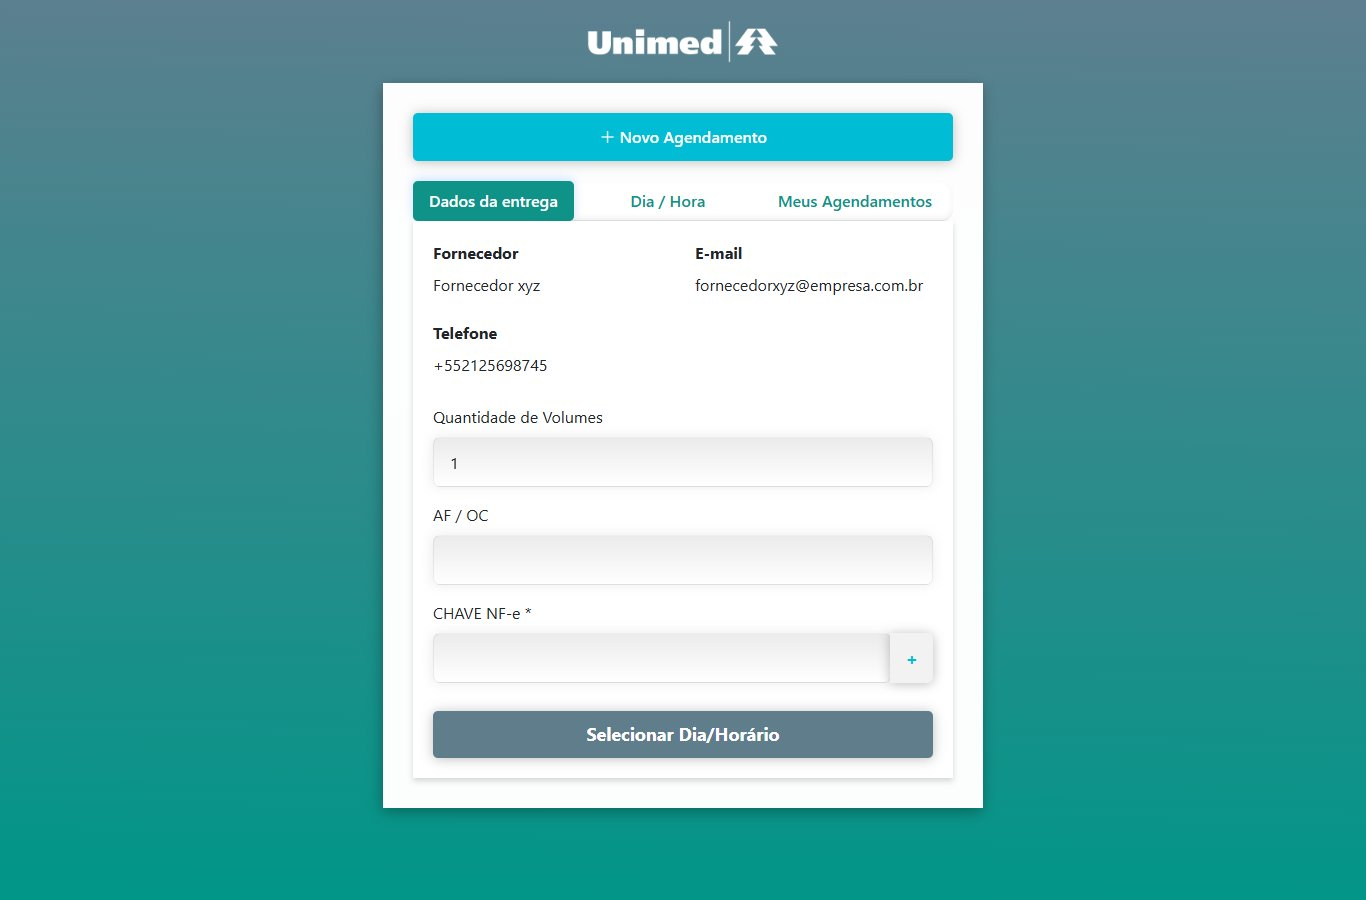
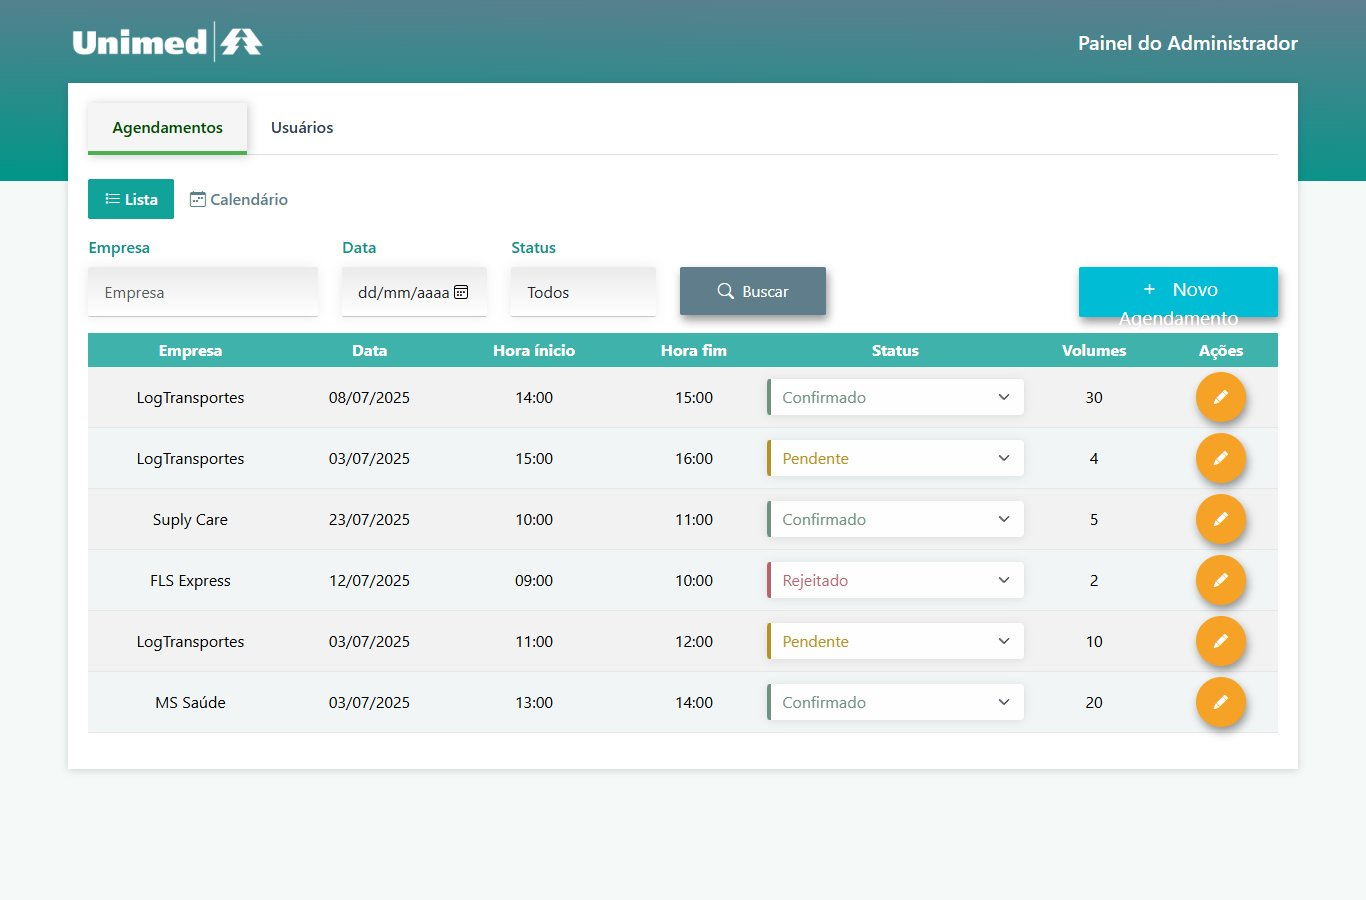
Abre painel administrativo no card Unimed

diff --git a/index.html b/index.html
@@ -1645,8 +1645,8 @@ a.card-scroll.is-card-visible:hover{transform:translate3d(0,-4px,0) scale(1);}
     <p class="corporate-access-note"><i class="bi bi-shield-lock" aria-hidden="true"></i><span><strong>Prévia ilustrativa:</strong> as intranets reais têm acesso restrito. As informações exibidas nestas imagens são fictícias e servem apenas para demonstrar o design, sem apresentar dados reais dos ambientes internos.</span></p>
 
     <div class="compact-grid">
-      <a class="compact-card no-lightbox" href="unimed/index.html" target="_blank" rel="noopener noreferrer">
-        <div class="compact-thumb"><img src="thumbs/unimed-agendamento.jpg" alt="Protótipo Unimed de agendamento de entregas" loading="lazy"></div>
+      <a class="compact-card no-lightbox" href="unimed/painel-admin.html" target="_blank" rel="noopener noreferrer">
+        <div class="compact-thumb"><img src="thumbs/unimed-agendamento.jpg" alt="Painel administrativo do sistema de agendamento Unimed" loading="lazy"></div>
         <div class="compact-body"><p class="compact-title">Unimed — Agendamento</p><p class="compact-sub">Sistema de agendamento · Abrir protótipo ↗</p></div>
       </a>
       <a class="compact-card no-lightbox" href="fqm/index.html" target="_blank" rel="noopener noreferrer">
@@ -2246,3 +2246,4 @@ a.card-scroll.is-card-visible:hover{transform:translate3d(0,-4px,0) scale(1);}
 </script>
 </body>
 </html>
+
